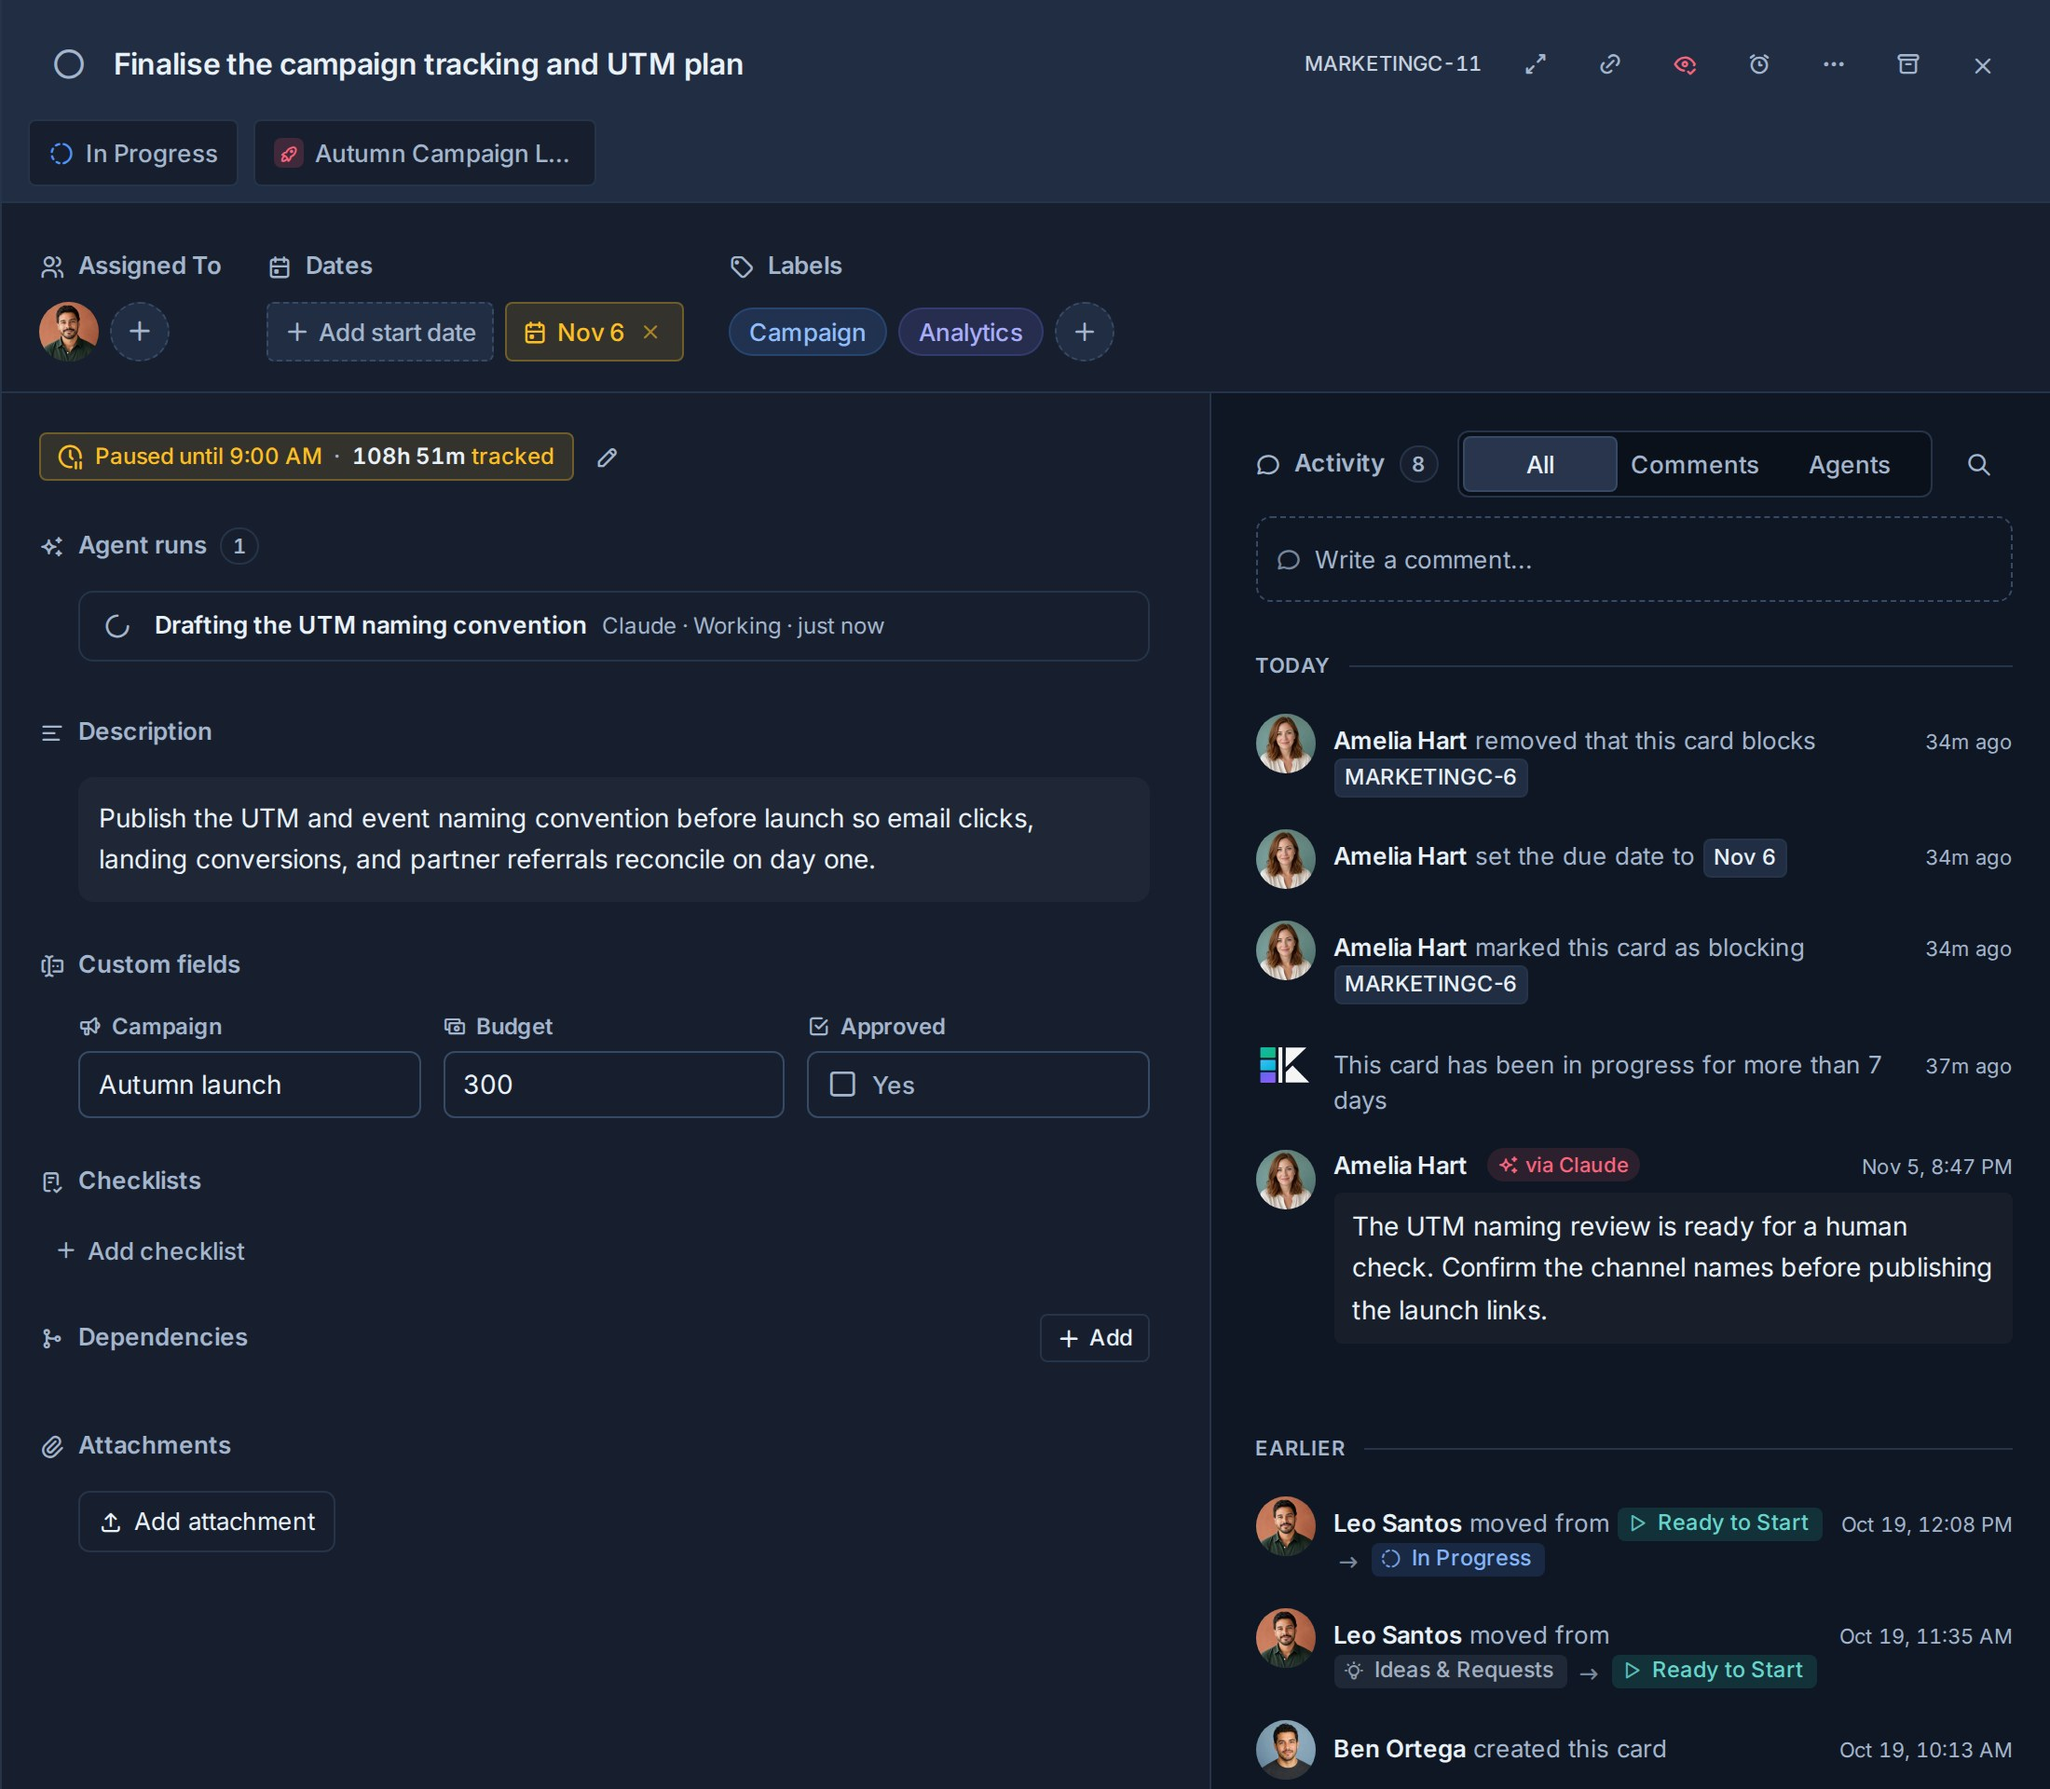
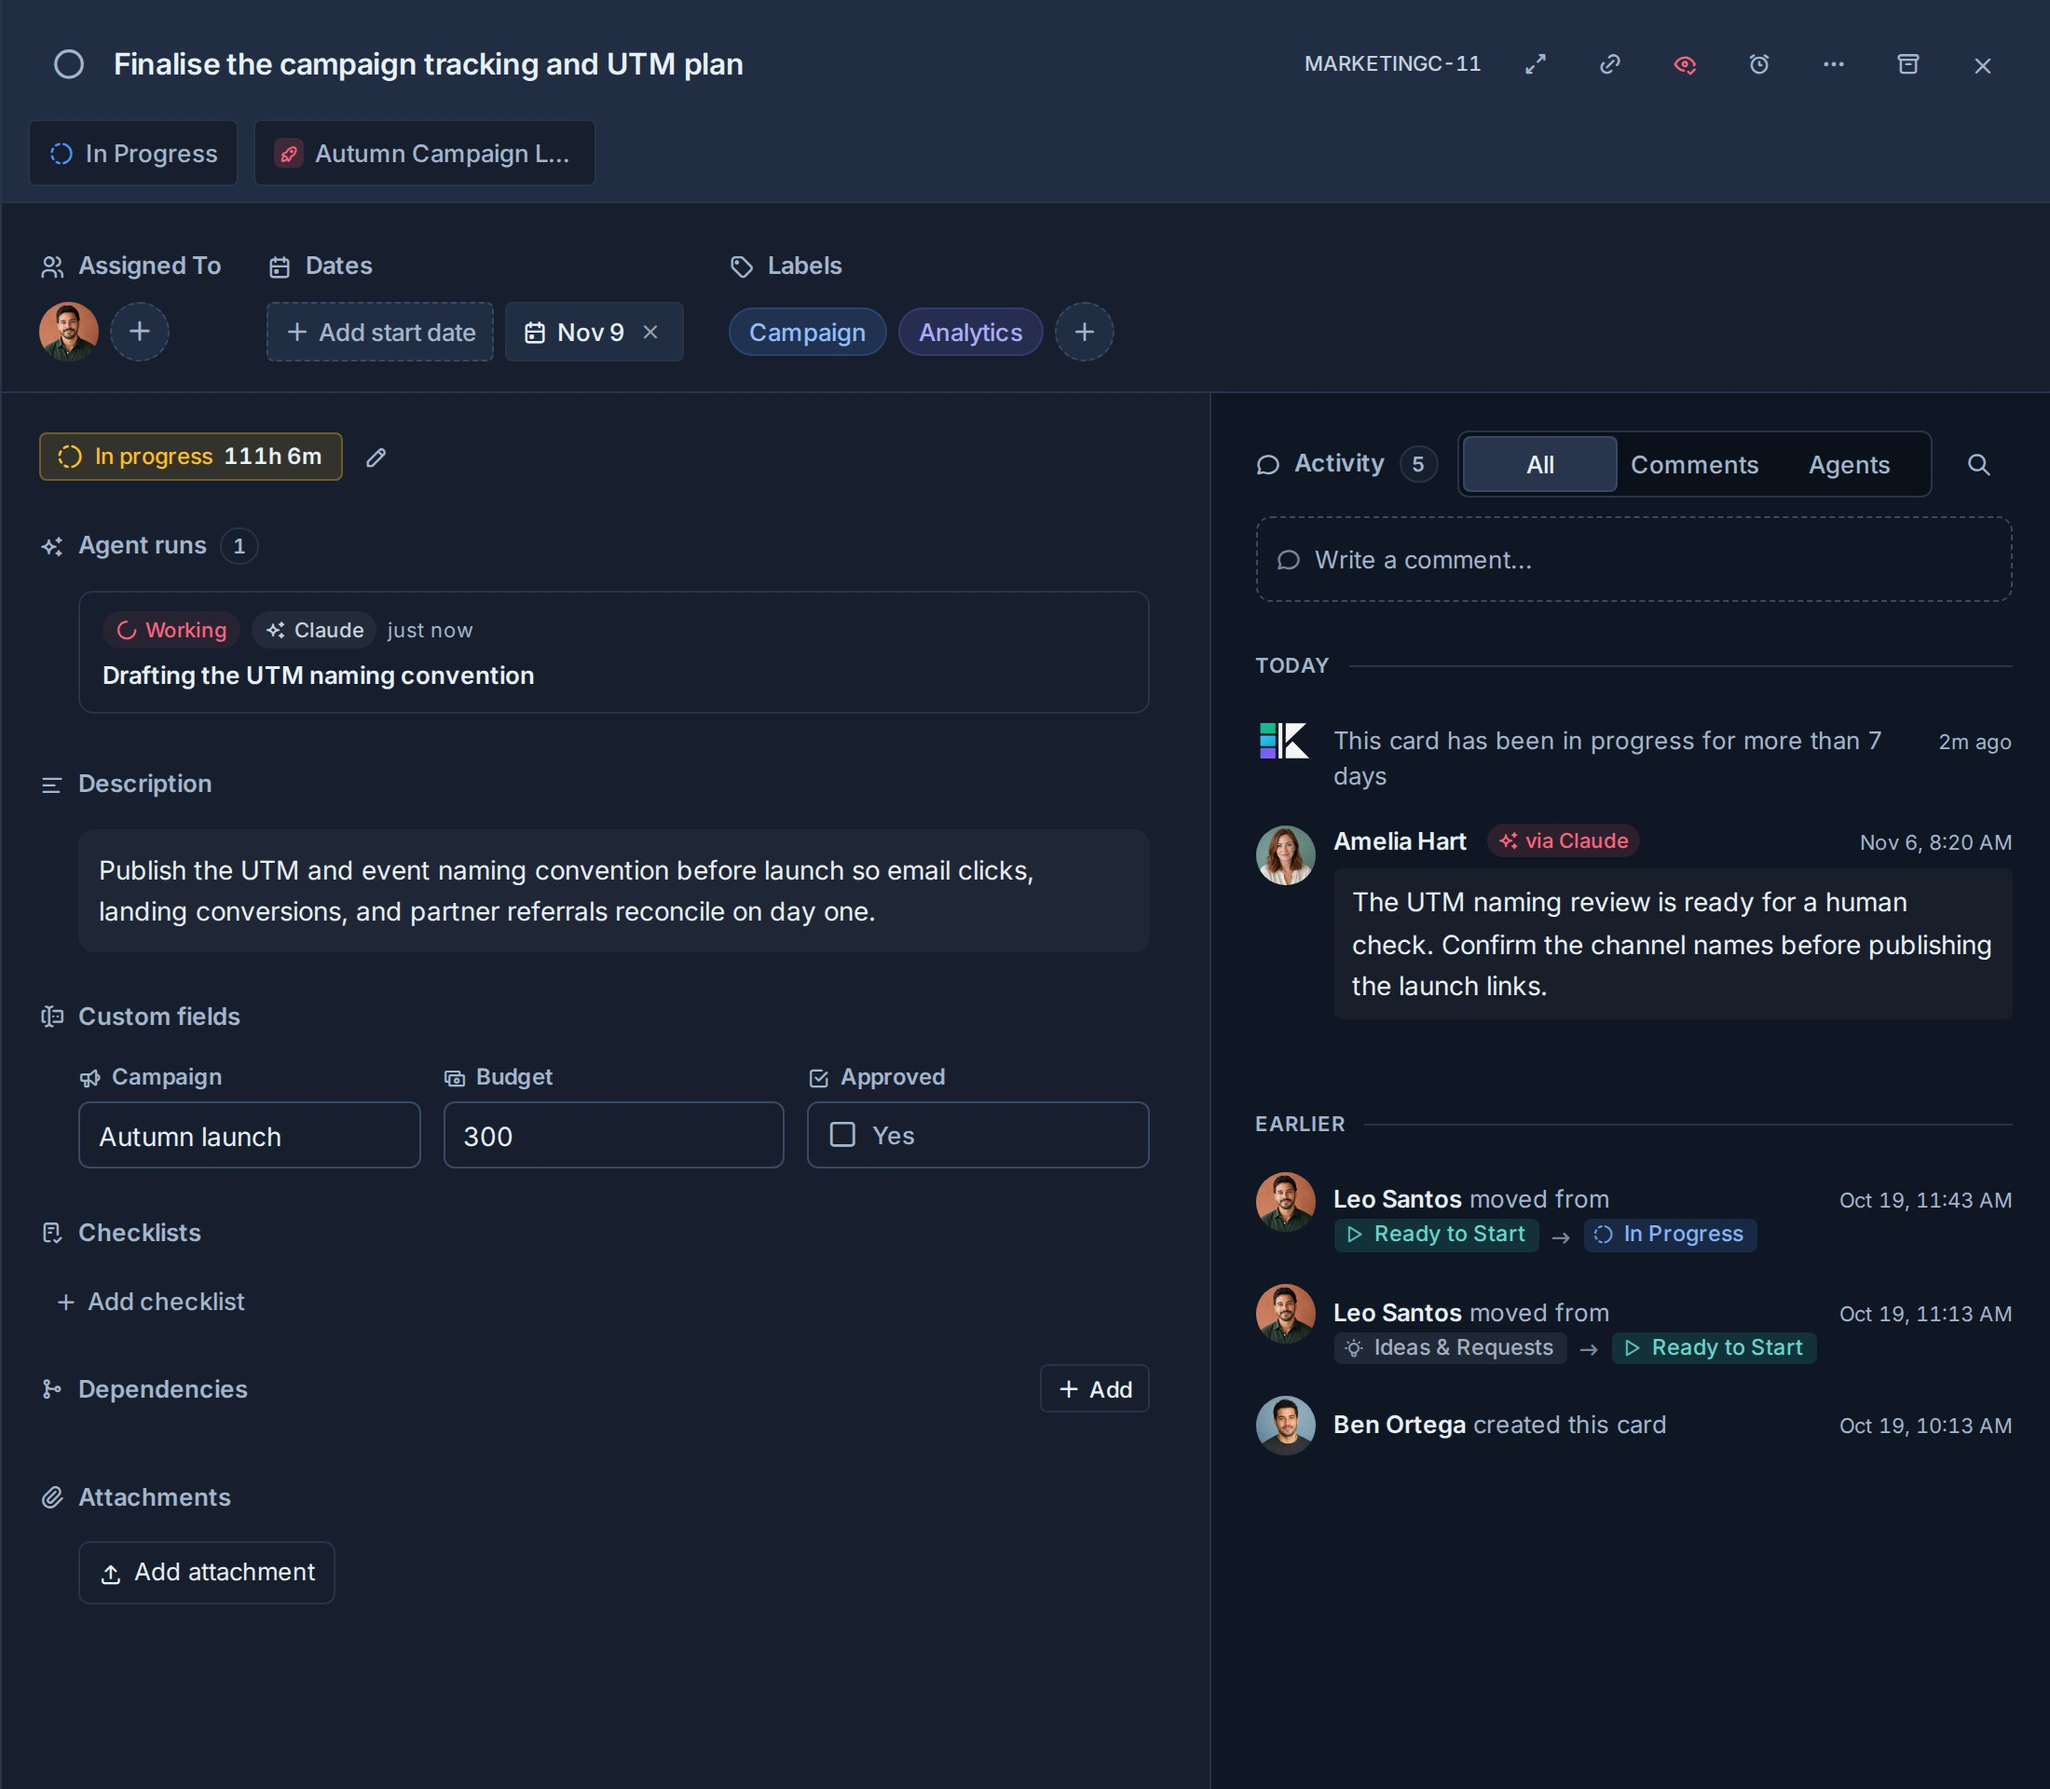
change: improve agent runs design

diff --git a/apps/web/src/app/features/board/card-detail.component.scss b/apps/web/src/app/features/board/card-detail.component.scss
@@ -549,8 +549,9 @@
   }
 }
 
-// Agent runs section. Status is carried by the icon colour and label alone (no coloured edge rules:
-// Kanera never uses them); the spinning loader on a running row is what says "live".
+// Agent runs section. Status is a tinted chip (icon + word), never a coloured edge rule: Kanera never
+// uses them. A blocked run also washes its whole row amber, because "waiting on you" is the one state
+// that asks the reader to act.
 .agent-runs {
   margin-bottom: 4px;
 }
@@ -565,66 +566,109 @@
 }
 
 .agent-run {
+  flex: none;
   display: flex;
-  align-items: flex-start;
-  gap: 10px;
-  padding: 8px 10px;
+  flex-direction: column;
+  gap: 4px;
+  padding: 10px 12px;
   border: 1px solid var(--border);
   border-radius: 8px;
   background: var(--surface-1);
   min-width: 0;
-}
 
-.agent-run-status {
-  display: inline-grid;
-  place-items: center;
-  width: 20px;
-  height: 20px;
-  flex: 0 0 20px;
-  color: var(--text-muted);
-
-  i { font-size: 15px; }
-
-  .agent-run[data-status="running"] & { color: var(--accent); }
-  .agent-run[data-status="running"] & i { animation: agent-run-spin 1.1s linear infinite; }
-  .agent-run[data-status="blocked"] & { color: var(--color-amber, #b45309); }
-  .agent-run[data-status="failed"] &, .agent-run[data-status="stalled"] & { color: var(--color-red, #b91c1c); }
-  .agent-run[data-status="succeeded"] & { color: var(--color-green, #15803d); }
-}
-
-.agent-run-main {
-  flex: 1 1 auto;
-  min-width: 0;
-  display: flex;
-  flex-direction: column;
-  gap: 2px;
+  &[data-status="blocked"] {
+    background: var(--warning-soft);
+    border-color: color-mix(in srgb, var(--warning) 40%, var(--border));
+  }
 }
 
 .agent-run-head {
   display: flex;
   flex-wrap: wrap;
-  align-items: baseline;
-  gap: 2px 8px;
+  align-items: center;
+  gap: 4px 6px;
   min-width: 0;
 }
 
+// Shared chip shape for status and agent, matching the activity feed's "via agent" pill.
+.agent-run-status,
+.agent-run-agent {
+  display: inline-flex;
+  align-items: center;
+  gap: 4px;
+  padding: 0 7px;
+  border-radius: 999px;
+  font-size: var(--text-xs);
+  font-weight: 500;
+  line-height: 20px;
+  white-space: nowrap;
+
+  i { font-size: var(--text-sm); }
+}
+
+.agent-run-status {
+  color: var(--text-3);
+  background: var(--surface-2);
+}
+
+// Keyed off the row, not `.agent-run[...] &`: this file nests under .card-detail-root, so a
+// trailing `&` would expand to `.agent-run .card-detail-root .agent-run-status` and never match.
+.agent-run {
+  &[data-status="running"] .agent-run-status { color: var(--accent); background: var(--accent-soft); }
+  &[data-status="running"] .agent-run-status i { animation: agent-run-spin 1.1s linear infinite; }
+  &[data-status="blocked"] .agent-run-status { color: var(--warning); background: var(--warning-soft); }
+  &[data-status="failed"] .agent-run-status, &[data-status="stalled"] .agent-run-status { color: var(--danger); background: var(--danger-soft); }
+  &[data-status="succeeded"] .agent-run-status { color: var(--success); background: var(--success-soft); }
+}
+
+.agent-run-agent {
+  color: var(--text-3);
+  background: color-mix(in srgb, var(--text) 6%, transparent); // neutral pill; no neutral wash token exists
+  max-width: 100%;
+  overflow: hidden;
+  text-overflow: ellipsis;
+}
+
+.agent-run-time {
+  font-size: var(--text-xs);
+  color: var(--text-muted);
+  white-space: nowrap;
+}
+
+.agent-run-link {
+  margin-left: auto;
+  display: inline-grid;
+  place-items: center;
+  width: var(--h-xs);
+  height: var(--h-xs);
+  border-radius: 6px;
+  color: var(--text-muted);
+  transition: color var(--motion-fast), background-color var(--motion-fast);
+
+  &:hover { color: var(--text); background: var(--accent-soft); }
+  i { font-size: var(--text-base); }
+
+  @media (hover: none), (pointer: coarse), (any-pointer: coarse) {
+    width: 44px;
+    height: 44px;
+    margin: -11px -11px -11px auto;
+  }
+}
+
 .agent-run-title {
+  margin: 2px 0 0;
   font-size: var(--text-base);
   font-weight: 600;
+  line-height: 1.35;
   color: var(--text);
   overflow-wrap: anywhere;
 }
 
-.agent-run-meta {
-  font-size: var(--text-sm);
-  color: var(--text-muted);
-}
-
 .agent-run-summary {
   margin: 0;
-  font-size: var(--text-base);
-  line-height: 1.45;
-  color: var(--text-muted);
+  font-size: var(--text-sm);
+  line-height: 1.5;
+  color: var(--text-3);
   white-space: pre-wrap;
   overflow-wrap: anywhere;
 }

diff --git a/apps/web/src/app/features/board/card-detail.component.html b/apps/web/src/app/features/board/card-detail.component.html
@@ -107,18 +107,22 @@
         <ul class="agent-run-list">
           @for (run of liveAgentRuns(); track run.id) {
           <li class="agent-run" [attr.data-status]="run.status">
-            <span class="agent-run-status" [kTooltip]="agentRunStatusLabel(run)">
-              <i aria-hidden="true" [class]="'ti ti-' + agentRunStatusIcon(run)"></i>
-            </span>
-            <div class="agent-run-main">
-              <div class="agent-run-head">
-                <span class="agent-run-title">{{ run.title }}</span>
-                <span class="agent-run-meta">{{ run.agentName }} · {{ agentRunStatusLabel(run) }} · {{ formatFeedTime(run.heartbeatAt) }}</span>
-              </div>
-              @if (run.summary) {
-              <p class="agent-run-summary">{{ run.summary }}</p>
+            <!-- Who and what state come first, as chips, so the title can take the full width
+                 instead of fighting a wrapped meta line for space. -->
+            <div class="agent-run-head">
+              <span class="agent-run-status">
+                <i aria-hidden="true" [class]="'ti ti-' + agentRunStatusIcon(run)"></i>{{ agentRunStatusLabel(run) }}
+              </span>
+              <span class="agent-run-agent"><i aria-hidden="true" class="ti ti-sparkles"></i>{{ run.agentName }}</span>
+              <span class="agent-run-time" [kTooltip]="agentRunStartedLabel(run)">{{ formatFeedTime(run.heartbeatAt) }}</span>
+              @if (run.externalUrl) {
+              <a class="agent-run-link" [href]="run.externalUrl" target="_blank" rel="noopener noreferrer" kTooltip="Open run" i18n-kTooltip="Tooltip on a link to where an AI agent run can be watched (a pull request, a session log)" aria-label="Open run" i18n-aria-label="Accessible name of a link to where an AI agent run can be watched (a pull request, a session log)"><i aria-hidden="true" class="ti ti-external-link"></i></a>
               }
             </div>
+            <p class="agent-run-title">{{ run.title }}</p>
+            @if (run.summary) {
+            <p class="agent-run-summary">{{ run.summary }}</p>
+            }
           </li>
           }
         </ul>

diff --git a/apps/web/src/styles.scss b/apps/web/src/styles.scss
@@ -194,7 +194,31 @@ k-list.is-drop-target {
 .ti-loader-4,
 .ti-loader-quarter,
 .kanera-spin {
+  // Tabler glyphs are drawn on a 1em square; rotating anything but that exact square (an inline box
+  // sized by line-height, or one stretched by a flex parent) puts the pivot off the glyph's centre
+  // and the icon wobbles. Pin the box to 1em x 1em and pivot on its centre.
   display: inline-block;
+  flex: 0 0 auto;
+  width: 1em;
+  height: 1em;
+  line-height: 1;
+  text-align: center;
+  vertical-align: -0.125em;
+  transform-origin: 50% 50%;
+  animation: kanera-spinner 0.8s linear infinite;
+}
+
+// Ring spinner for loading states without an icon. Global so every component can use it.
+.spinner {
+  display: inline-block;
+  flex: 0 0 auto;
+  box-sizing: border-box;
+  width: 18px;
+  height: 18px;
+  border: 2px solid var(--border);
+  border-top-color: var(--text-muted);
+  border-radius: 50%;
+  transform-origin: 50% 50%;
   animation: kanera-spinner 0.8s linear infinite;
 }
 
@@ -204,7 +228,8 @@ k-list.is-drop-target {
   .ti-loader-3,
   .ti-loader-4,
   .ti-loader-quarter,
-  .kanera-spin {
+  .kanera-spin,
+  .spinner {
     animation: none;
   }
 }

diff --git a/apps/web/src/app/features/global-work/global-work.page.scss b/apps/web/src/app/features/global-work/global-work.page.scss
@@ -530,21 +530,6 @@ input {
   margin-bottom: 0;
 }
 
-.spinner {
-  width: 18px;
-  height: 18px;
-  border: 2px solid var(--border);
-  border-top-color: var(--text-muted);
-  border-radius: 50%;
-  animation: spin 0.8s linear infinite;
-}
-
-@keyframes spin {
-  to {
-    transform: rotate(360deg);
-  }
-}
-
 // The work-done view carries its own side gutter for the board page, where it sits flush inside the
 // board chrome. Here .work-page already provides one, so the day panels would otherwise be inset a
 // second time and stop lining up with the toolbar and tables above them — worst at phone widths,

diff --git a/apps/admin-web/src/app/features/demo/demo.page.ts b/apps/admin-web/src/app/features/demo/demo.page.ts
@@ -133,7 +133,7 @@ import { ToastService } from "../../shared/toast.service";
     ul { columns: 2; margin: 10px 0 0; padding-left: 22px; }
     li { margin: 5px 0; }
     .counts { margin-top: 14px; }
-    .spin { animation: spin 1s linear infinite; }
+    .spin { display: inline-block; width: 1em; height: 1em; line-height: 1; text-align: center; transform-origin: 50% 50%; animation: spin 1s linear infinite; }
     @keyframes spin { to { transform: rotate(360deg); } }
     @media (max-width: 800px) {
       .panel-head { flex-direction: column; }

diff --git a/apps/web/src/app/features/board/card-detail.component.ts b/apps/web/src/app/features/board/card-detail.component.ts
@@ -411,6 +411,9 @@ export class CardDetailComponent {
       case "stalled": return $localize`:AI agent run status - the agent stopped reporting progress:Stalled (no heartbeat)`;
     }
   }
+  agentRunStartedLabel(run: WireAgentRun): string {
+    return $localize`:Tooltip on an AI agent run's last-update time - when the run started:Started ${formatDateTime(run.startedAt)}:time:`;
+  }
   agentRunStatusIcon(run: WireAgentRun): string {
     switch (run.status) {
       case "running": return "loader-2";

diff --git a/apps/web/src/app/features/board/card.component.scss b/apps/web/src/app/features/board/card.component.scss
@@ -1099,17 +1099,7 @@ k-card-labels {
   color: var(--text-muted);
 
   i {
-    flex: 0 0 auto;
-    margin-top: 1px;
     font-size: var(--text-md);
-    line-height: 1;
-    animation: checklist-loading-spin 0.8s linear infinite;
-  }
-}
-
-@keyframes checklist-loading-spin {
-  to {
-    transform: rotate(360deg);
   }
 }
 
